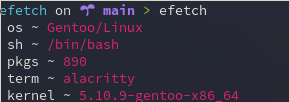
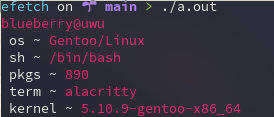
add hostname to output

Changed region(s): [[0.0, 0.0, 1.0, 1.0], [0.1168, 0.3235, 0.146, 0.3529]]

diff --git a/main.c b/main.c
@@ -14,13 +14,13 @@ Color::Modifier secondary(Color::FG_RED);
 
 //method for executing a command and get the output
 std::string exec(const char* cmd) {
-    std::array<char, 64> buffer;
+    std::array<char, 32> buffer;
     std::string result;
 
     auto pipe = popen(cmd, "r");
 
     while(!feof(pipe)) {
-        if(fgets(buffer.data(), 64, pipe) != nullptr) {
+        if(fgets(buffer.data(), 32, pipe) != nullptr) {
             result += buffer.data();
         }
     }
@@ -54,6 +54,7 @@ int main() {
     checkOS();
 
     if(!os.empty()) {
+        std::cout << secondary << exec("echo $USER@$HOSTNAME");
         std::cout << primary << c_str(" os ~ ") << secondary << c_str(os) << std::endl; 
         std::cout << primary << c_str(" sh ~ ") << secondary << c_str(exec("echo $SHELL")); 
         std::cout << primary << c_str(" pkgs ~ ") << secondary << c_str(packageAmount);
